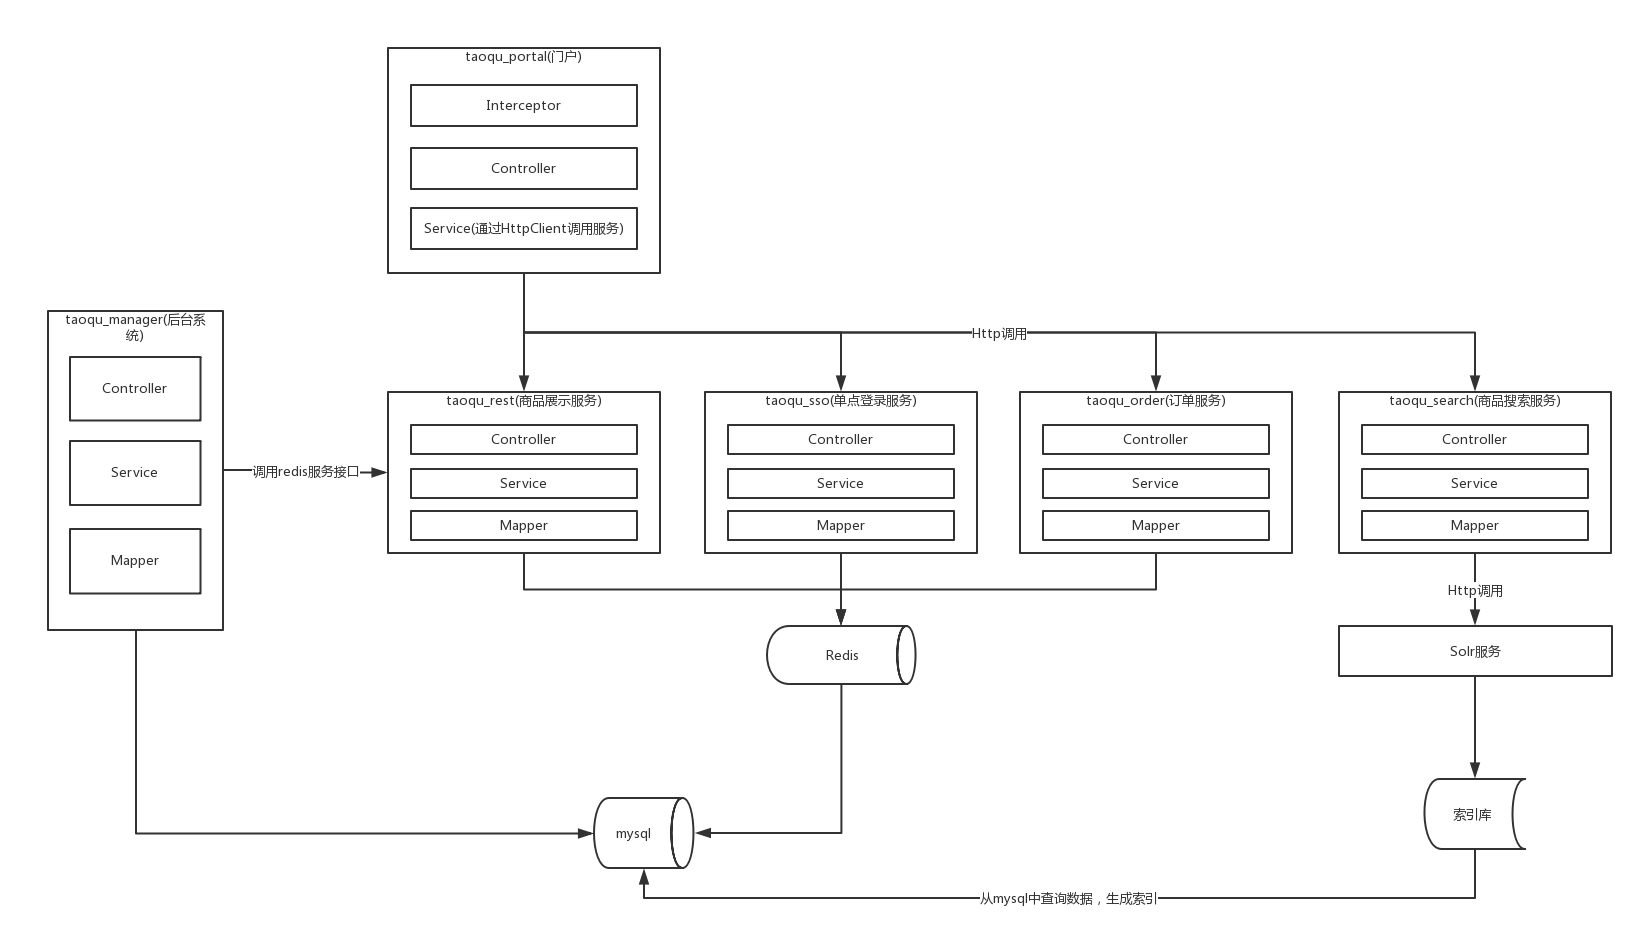
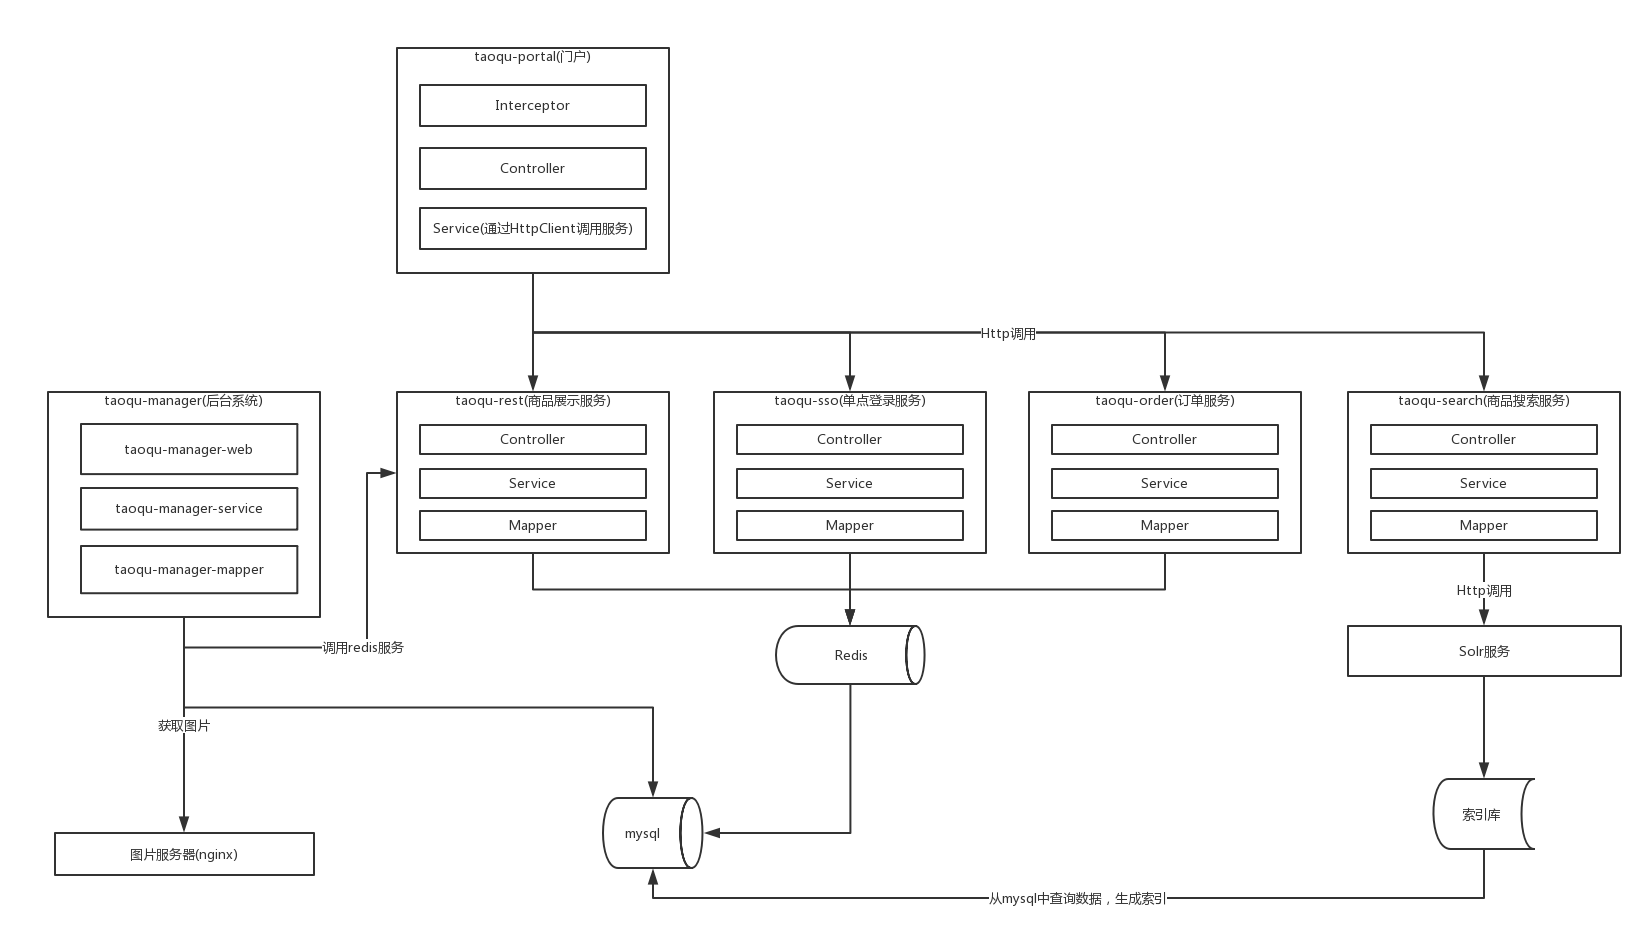
提交readme.md和淘趣商城架构图

diff --git a/taoqu-portal/src/main/java/com/taoqu/portal/controller/CartController.java b/taoqu-portal/src/main/java/com/taoqu/portal/controller/CartController.java
@@ -1,6 +1,4 @@
-/**
- * 
- */
+
 package com.taoqu.portal.controller;
 
 import java.util.List;

diff --git a/README.md b/README.md
@@ -2,11 +2,42 @@
 淘趣商城是一个仿淘宝、京东的一个电子商城项目。初步实现了商品详情展示、购物车、订单系统、商品搜索、用户单点登录等功能。
 该项目采用SOA分布式服务架构，适合对电商网站有兴趣的初学者参考，由于本人水平有限，部分代码依然有优化空间，因此欢迎对这个项目感兴趣的同仁不吝赐教。
 
-[功能描述]：主要描述一下这个项目的主要功能列表。
-[开发环境]：罗列使用本工程项目所需要安装的开发环境及配置，以及所需软件的版本说明和对应的下载链接。
-[项目结构简介]：简单介绍项目模块结构目录树，对用户可以修改的文件做重点说明。
-[测试DEMO]：此处可以简单介绍一下DEMO程序的思路，具体实现代码放在example文件夹中。
-[作者列表]：对于多人合作的项目，可以在这里简单介绍并感谢所有参与开发的研发人员。
-[更新链接]：提供后续更新的代码链接。
-[历史版本]：对历史版本更改 记录做个简单的罗列，让用户直观的了解到哪些版本解决了哪些问题。
-[联系方式]：可以提供微信、邮箱等联系方式，其他人对这个工程不明白的地方可以通过该联系方式与你联系。
+1.功能描述
+	以下所有内容请参考docs/架构图/淘趣商城技术架构.png
+	1.taoqu-manager：该模块是一个后台系统，主要提供商品管理和门户网站内容管理功能。其中：
+	   商品管理主要包括：
+	   (1).新增商品：编辑一个商品的类目、标题、卖点、价格等信息，提交至数据库，供前台展示。
+	   (2).查询商品：获取数据库中所有商品的明细信息，并提供增加、编辑、删除等功能。
+	   (3).规格参数：维护某类商品的规格参数，提供新增、编辑、删除、查看某类商品的规格参数的功能。
+	   门户网站内容管理功能包括：
+	   (1)内容分类管理：可查看、编辑、添加、删除某个在前台系统展示的内容分类，如大广告、小广告、边栏广告等
+	   (2)内容管理：可查看、编辑、添加、删除某个内容分类下的具体的广告内容。
+	2.taoqu-portal:淘趣商城前台系统，整合了各种前端框架，主要负责页面的整体展现。该模块只负责请求的分发，而并不对每个请求进行具体的业务逻辑处理。
+	3.taoqu-rest:该模块提供了商品相关信息的提供服务，供taoqu-portal调用。
+	4.taoqu-search:该模块提供了商品搜索服务，供taoqu-portal调用。
+	5.taoqu-order:该模块提供了商品订单服务，供taoqu-portal调用。
+	6.taoqu-sso:该模块提供了单点登录服务，供taoqu-portal调用。
+	7.mysql服务器：作为数据库服务器，统一存放所有数据。
+	8.redis服务器: 作为缓存数据库，一是存放一些用户可能会经常访问的内容，提高前端访问速度。二是作为一个全局变量池，保存一些具有全局属性的内容，比如session。三是作为订单号生成器
+	9.solr服务器：该服务器安装了solr，提供搜索服务，供taoqu-search调用。该服务器主要提供两个功能：
+	   (1)从mysql数据库中抽取数据制作索引，形成索引库
+	   (2)根据taoqu-search提交的http请求，查询索引库，返回查询结果。
+    10.nginx服务器：作为图片服务器，保存各种商品的图片，并以url的方式提供给其他各系统获取相应的图片资源。
+2.开发环境要求：
+	JDK:1.8及以上
+	Maven:3.0.5及以上版本即可
+	版本管理系统：svn或者git均可
+	Redis:3.0.0
+	Tomcat:7.0及以上版本4.10.3
+	Solr:4.10.3
+	Zookeeper:3.4.6
+	Mysql:5.6
+	Spring:4.0
+	SpringMVC:4.0
+	MyBatis:
+	服务器操作系统版本：Centos 6.4
+	安装文件请参考目录：/soft/*
+3.历史版本:
+	v1.0.0 本次是初次上传
+4.联系方式：
+	如对该项目有疑问，请将问题发送到375105467@qq.com
